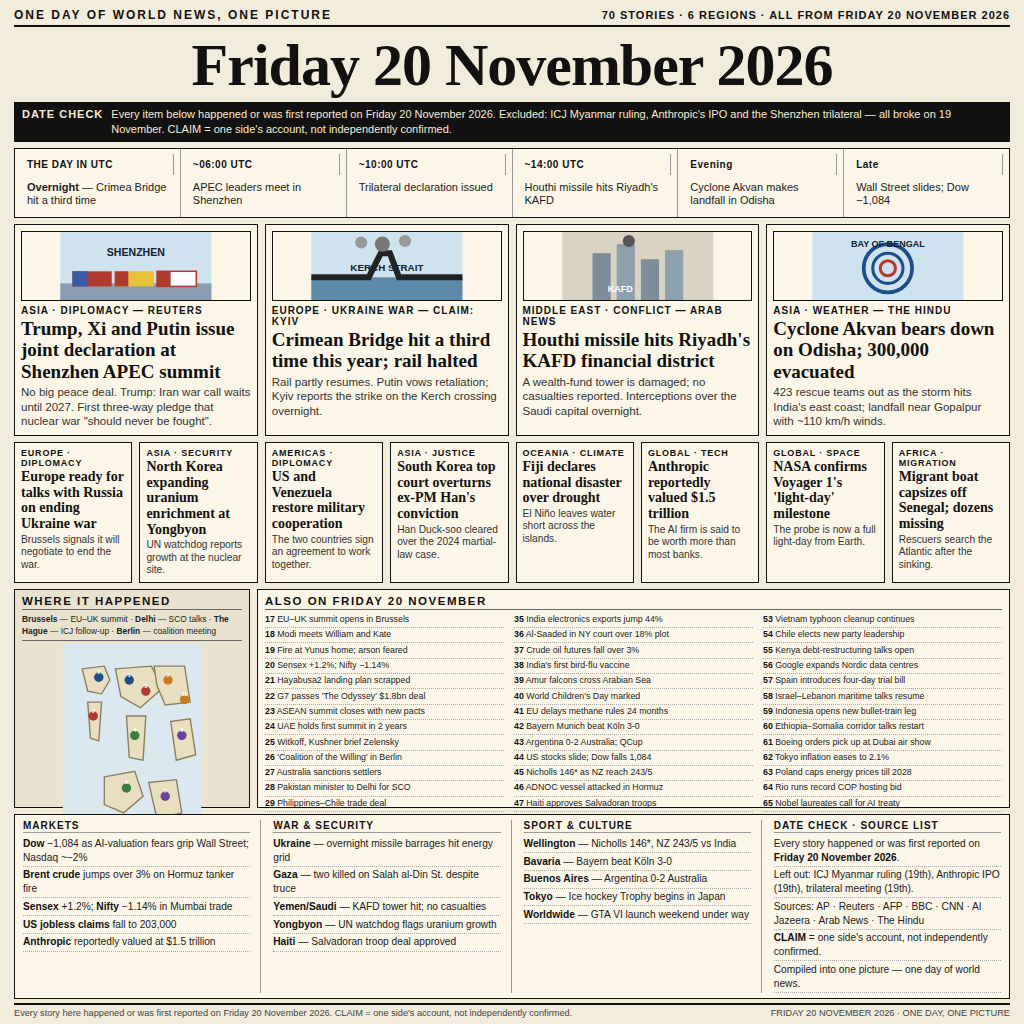
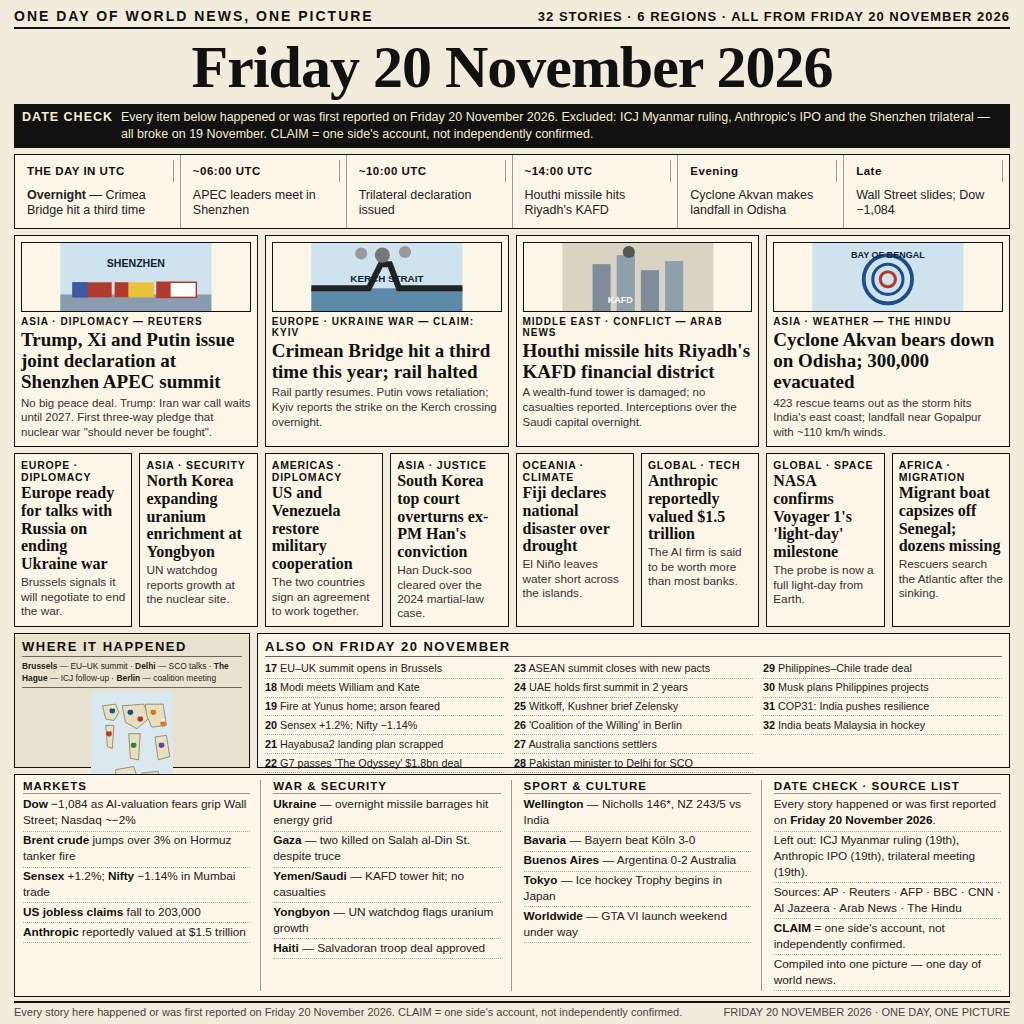
v6: type scale raised one notch across all sections, ALSO list trimmed to 32 - readability edit for the 20 Nov edition

diff --git a/entry_v4.html b/entry_v4.html
@@ -7,14 +7,14 @@
   body { width:1024px; height:1024px; background:#f2ecdc; font-family:Georgia, 'Times New Roman', serif; color:#111; }
   .page { width:1024px; height:1024px; padding:8px 14px 6px; display:flex; flex-direction:column; }
   .topbar { display:flex; justify-content:space-between; align-items:center; border-bottom:2.5px solid #111; padding-bottom:3px; font-family:Arial, sans-serif; }
-  .topbar .l { font-size:12px; font-weight:900; letter-spacing:2px; color:#111; }
-  .topbar .r { font-size:11px; font-weight:900; letter-spacing:1px; color:#111; }
+  .topbar .l { font-size:14px; font-weight:900; letter-spacing:2px; color:#111; }
+  .topbar .r { font-size:13px; font-weight:900; letter-spacing:1px; color:#111; }
   h1 { text-align:center; font-size:60px; font-weight:900; letter-spacing:-1px; margin:4px 0 2px; }
   .tl { display:flex; gap:0; border:1.5px solid #111; background:#fbf6e8; margin-bottom:6px; }
   .tl div { flex:1; padding:5px 6px; border-right:1px solid #999; font-family:Arial, sans-serif; }
   .tl div:last-child { border-right:none; }
-  .tl .t { font-size:10px; font-weight:900; color:#111; letter-spacing:.5px; }
-  .tl .e { font-size:11px; line-height:1.2; color:#222; margin-top:1px; }
+  .tl .t { font-size:11.5px; font-weight:900; color:#111; letter-spacing:.5px; }
+  .tl .e { font-size:12.5px; line-height:1.2; color:#222; margin-top:1px; }
   .leads { display:flex; gap:7px; margin-bottom:6px; }
   .lead { flex:1; background:#fbf6e8; border:1.5px solid #111; padding:6px; display:flex; flex-direction:column; }
   .lead .kick { font-size:10px; font-weight:900; letter-spacing:1px; color:#111; font-family:Arial, sans-serif; }
@@ -24,36 +24,36 @@
   .lead .art { height:70px; margin-bottom:4px; border:1px solid #111; }
   .mid { display:flex; gap:7px; margin-bottom:6px; }
   .tile { flex:1; background:#fbf6e8; border:1px solid #111; padding:5px 6px; }
-  .tile .kick { font-size:9px; font-weight:900; letter-spacing:.8px; color:#111; font-family:Arial, sans-serif; }
-  .tile h4 { font-size:14px; line-height:1.12; margin-top:1px; }
-  .tile p { font-size:10.2px; line-height:1.22; color:#333; margin-top:2px; font-family:Arial, sans-serif; }
+  .tile .kick { font-size:10.5px; font-weight:900; letter-spacing:.8px; color:#111; font-family:Arial, sans-serif; }
+  .tile h4 { font-size:16px; line-height:1.12; margin-top:1px; }
+  .tile p { font-size:11.8px; line-height:1.22; color:#333; margin-top:2px; font-family:Arial, sans-serif; }
   .tile p b { color:#111; }
   .bottom { display:flex; gap:7px; flex:1; min-height:0; }
   .map { width:236px; background:#e9e2cf; border:1.5px solid #111; padding:5px 7px; }
-  .map h4 { font-size:11.5px; letter-spacing:1.5px; border-bottom:1px solid #666; padding-bottom:2px; margin-bottom:3px; font-family:Arial, sans-serif; color:#111; }
+  .map h4 { font-size:13px; letter-spacing:1.5px; border-bottom:1px solid #666; padding-bottom:2px; margin-bottom:3px; font-family:Arial, sans-serif; color:#111; }
   .map svg { width:100%; height:112px; }
-  .leg { font-size:8px; font-family:Arial, sans-serif; color:#222; margin-top:2px; }
+  .leg { font-size:9.5px; font-family:Arial, sans-serif; color:#222; margin-top:2px; }
   .also { flex:1; background:#fbf6e8; border:1.5px solid #111; padding:5px 7px; }
-  .also h4 { font-size:11.5px; letter-spacing:1.5px; border-bottom:1px solid #666; padding-bottom:2px; margin-bottom:3px; font-family:Arial, sans-serif; color:#111; }
+  .also h4 { font-size:13px; letter-spacing:1.5px; border-bottom:1px solid #666; padding-bottom:2px; margin-bottom:3px; font-family:Arial, sans-serif; color:#111; }
   .also .cols3 { columns:3; column-gap:10px; }
   .desk { background:#fbf6e8; border:1.5px solid #111; padding:5px 8px; margin-top:6px; display:flex; gap:12px; }
   .desk .cell { flex:1; border-right:1px solid #999; padding-right:10px; }
   .desk .cell:last-child { border-right:none; padding-right:0; }
-  .desk .h { font-size:10px; font-weight:900; letter-spacing:1px; color:#111; font-family:Arial, sans-serif; border-bottom:1px solid #999; padding-bottom:1px; margin-bottom:2px; }
-  .desk .row { font-size:10.2px; line-height:1.35; color:#222; font-family:Arial, sans-serif; border-bottom:1px dotted #aaa; padding:1.5px 0; }
+  .desk .h { font-size:11.5px; font-weight:900; letter-spacing:1px; color:#111; font-family:Arial, sans-serif; border-bottom:1px solid #999; padding-bottom:1px; margin-bottom:2px; }
+  .desk .row { font-size:11.8px; line-height:1.35; color:#222; font-family:Arial, sans-serif; border-bottom:1px dotted #aaa; padding:1.5px 0; }
   .desk .row b { color:#111; }
-  .also li { list-style:none; font-size:8.8px; line-height:1.36; color:#222; border-bottom:1px dotted #aaa; padding:1.2px 0; font-family:Arial, sans-serif; break-inside:avoid; }
+  .also li { list-style:none; font-size:10.8px; line-height:1.36; color:#222; border-bottom:1px dotted #aaa; padding:1.6px 0; font-family:Arial, sans-serif; break-inside:avoid; }
   .also li b { color:#111; }
-  .dc { background:#111; color:#f7ecd4; font-family:Arial, sans-serif; font-size:11px; line-height:1.35; padding:5px 8px; margin-bottom:6px; display:flex; gap:8px; }
+  .dc { background:#111; color:#f7ecd4; font-family:Arial, sans-serif; font-size:12.5px; line-height:1.35; padding:5px 8px; margin-bottom:6px; display:flex; gap:8px; }
   .dc .tag { font-weight:900; letter-spacing:1px; white-space:nowrap; }
-  .foot { border-top:2px solid #111; margin-top:4px; padding-top:3px; font-size:9.2px; color:#444; display:flex; justify-content:space-between; font-family:Arial, sans-serif; }
+  .foot { border-top:2px solid #111; margin-top:4px; padding-top:3px; font-size:11px; color:#444; display:flex; justify-content:space-between; font-family:Arial, sans-serif; }
 </style>
 </head>
 <body>
 <div class="page">
   <div class="topbar">
     <span class="l">ONE DAY OF WORLD NEWS, ONE PICTURE</span>
-    <span class="r">70 STORIES · 6 REGIONS · ALL FROM FRIDAY 20 NOVEMBER 2026</span>
+    <span class="r">32 STORIES · 6 REGIONS · ALL FROM FRIDAY 20 NOVEMBER 2026</span>
   </div>
   <h1>Friday 20 November 2026</h1>
   <div class="dc"><span class="tag">DATE CHECK</span><span>Every item below happened or was first reported on Friday 20 November 2026. Excluded: ICJ Myanmar ruling, Anthropic's IPO and the Shenzhen trilateral — all broke on 19 November. CLAIM = one side's account, not independently confirmed.</span></div>
@@ -151,44 +151,6 @@
         <li><b>30</b> Musk plans Philippines projects</li>
         <li><b>31</b> COP31: India pushes resilience</li>
         <li><b>32</b> India beats Malaysia in hockey</li>
-        <li><b>33</b> Ice hockey Trophy begins in Japan</li>
-        <li><b>34</b> Harmanjot Skiakh athletic in Japan</li>
-        <li><b>35</b> India electronics exports jump 44%</li>
-        <li><b>36</b> Al-Saaded in NY court over 18% plot</li>
-        <li><b>37</b> Crude oil futures fall over 3%</li>
-        <li><b>38</b> India's first bird-flu vaccine</li>
-        <li><b>39</b> Amur falcons cross Arabian Sea</li>
-        <li><b>40</b> World Children's Day marked</li>
-        <li><b>41</b> EU delays methane rules 24 months</li>
-        <li><b>42</b> Bayern Munich beat Köln 3-0</li>
-        <li><b>43</b> Argentina 0-2 Australia; QCup</li>
-        <li><b>44</b> US stocks slide; Dow falls 1,084</li>
-        <li><b>45</b> Nicholls 146* as NZ reach 243/5</li>
-        <li><b>46</b> ADNOC vessel attacked in Hormuz</li>
-        <li><b>47</b> Haiti approves Salvadoran troops</li>
-        <li><b>48</b> Azerbaijan's Aliyev visits Vietnam</li>
-        <li><b>49</b> US jobless claims 203,000</li>
-        <li><b>50</b> Trump defers Iran decision to 2027</li>
-        <li><b>51</b> Nicaragua marks independence week</li>
-        <li><b>52</b> Ghana push for cocoa price floor</li>
-        <li><b>53</b> Vietnam typhoon cleanup continues</li>
-        <li><b>54</b> Chile elects new party leadership</li>
-        <li><b>55</b> Kenya debt-restructuring talks open</li>
-        <li><b>56</b> Google expands Nordic data centres</li>
-        <li><b>57</b> Spain introduces four-day trial bill</li>
-        <li><b>58</b> Israel–Lebanon maritime talks resume</li>
-        <li><b>59</b> Indonesia opens new bullet-train leg</li>
-        <li><b>60</b> Ethiopia–Somalia corridor talks restart</li>
-        <li><b>61</b> Boeing orders pick up at Dubai air show</li>
-        <li><b>62</b> Tokyo inflation eases to 2.1%</li>
-        <li><b>63</b> Poland caps energy prices till 2028</li>
-        <li><b>64</b> Rio runs record COP hosting bid</li>
-        <li><b>65</b> Nobel laureates call for AI treaty</li>
-        <li><b>66</b> Qatar Airways adds Osaka route</li>
-        <li><b>67</b> Nigeria central bank holds rates</li>
-        <li><b>68</b> New Caledonia vote date set</li>
-        <li><b>69</b> WHO: mpox flare-up contained</li>
-        <li><b>70</b> UK rail strike called off</li>
       </div>
     </div>
   </div>
